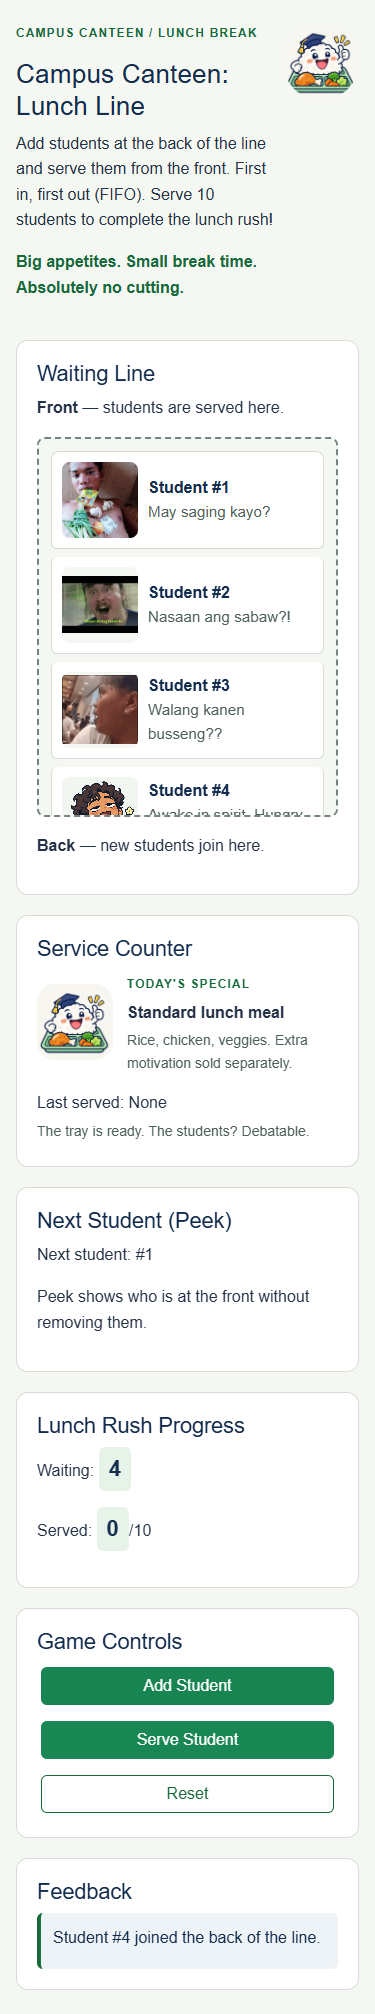
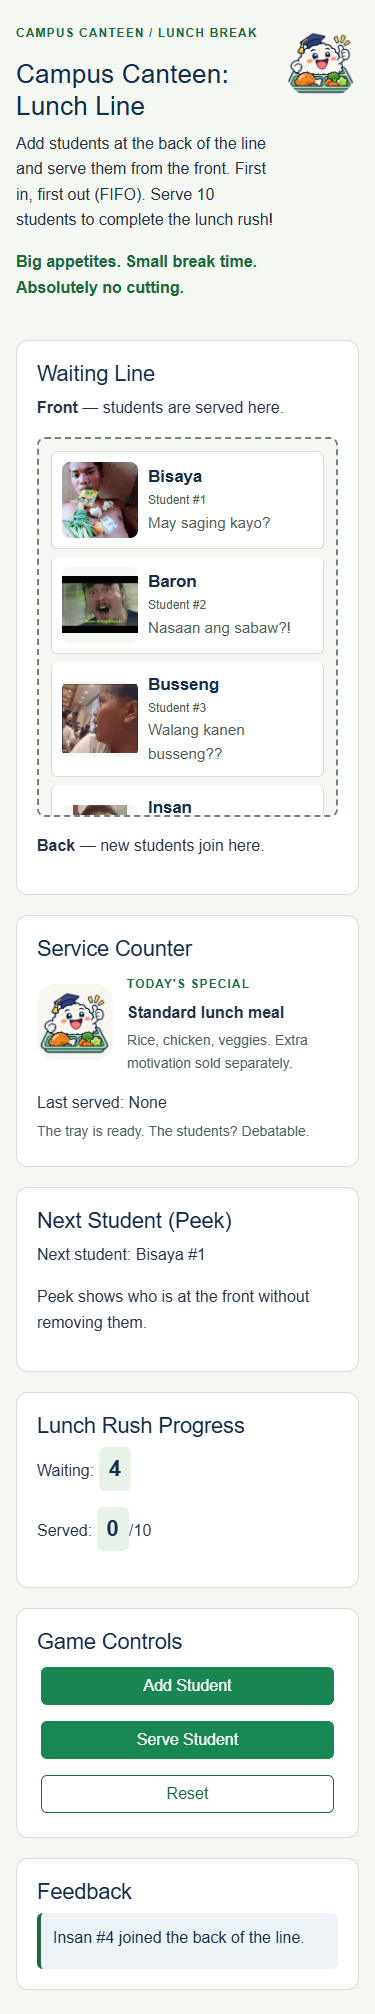
Add five named meme characters with supplied portraits and dialogue

diff --git a/docs/project-report.html b/docs/project-report.html
@@ -32,7 +32,7 @@ code{font-size:10pt}img{display:block;max-width:100%;max-height:200mm;margin:aut
 <section class="page"><h2>Gameplay screenshot</h2><p>After serving #1 and adding another student, arrival order and Last served remain consistent.</p><img src="screenshots/playing-1280.png" alt="Actual game showing students 2 through 5 waiting and student 1 last served"></section>
 <section class="page"><h2>Completion screenshot</h2><p>Ten served, two still waiting: Add and Serve are disabled until Reset.</p><img src="screenshots/success.png" alt="Actual game at 10 served with success feedback"></section>
 <section class="page"><h2>Verification and development</h2><p>Automated browser checks passed at 1280px and 375px using offline file launch: arrival order, repeated peek, empty-queue handling, FIFO serving, counts, completion guards, Reset, and refresh. No HTTP requests, console errors, or horizontal page overflow were observed. See <code>test-results.md</code> for the full record.</p>
-<h3>Local artwork</h3><p>Three user-supplied meme portraits, a retained cartoon portrait, and an AI-generated rice mascot are bundled in assets. Portraits repeat by student number and follow the served student to the counter. Captions are cosmetic; queue numbers and FIFO behavior remain unchanged. The exact generation prompts are recorded in assets/README.md.</p><h3>Development problem and solution</h3><p>The course calls for library integration and offline launch. Bootstrap and jQuery are stored locally and loaded before dependent custom code. Offline checks verify the game does not rely on an internet connection.</p>
+<h3>Local artwork</h3><p>Five named user-supplied meme portraits, and an AI-generated rice mascot are bundled in assets. Portraits repeat by student number and follow the served student to the counter. Captions are cosmetic; queue numbers and FIFO behavior remain unchanged. The exact generation prompts are recorded in assets/README.md.</p><h3>Development problem and solution</h3><p>The course calls for library integration and offline launch. Bootstrap and jQuery are stored locally and loaded before dependent custom code. Offline checks verify the game does not rely on an internet connection.</p>
 <h3>Contributions and AI assistance</h3><p>Reported contributions: Jared — HTML and Add integration; Eric — styling and local libraries; Fred — initialization and enqueue; Russ — dequeue. AI assistance completed final Serve/Reset integration, feedback, checks, and documentation. Human review of these final additions is still required; this report does not claim it occurred.</p>
 <h3>Demonstration plan</h3><ul><li>Jared: objective, HTML areas, and Add event handler.</li><li>Eric: custom CSS, Bootstrap, responsive and offline behavior.</li><li>Fred: array objects, enqueue, numbering, and peek.</li><li>Russ: dequeue, returned customer, completion, and Reset.</li></ul>
 <p>Use the accompanying demo guide for a 10–15 minute rehearsal. Everyone should explain FIFO, return values, invalid-action guards, and their own code.</p>

diff --git a/js/game.js b/js/game.js
@@ -5,12 +5,18 @@ let lastServedCustomer = null;
 const SERVED_TARGET = 10;
 
 // Cosmetic profiles repeat; the unique queue number still identifies each student.
+const STUDENT_NAMES = ["Bisaya", "Baron", "Busseng", "Insan", "Neneng B"];
 const STUDENT_MOODS = [
   "May saging kayo?",
   "Nasaan ang sabaw?!",
   "Walang kanen busseng??",
-  "Awake in spirit. Hungry in person."
+  "Mekus mekus mo na 'yan insan",
+  "'Ma ano ulam?"
 ];
+
+function customerLabel(customer) {
+  return STUDENT_NAMES[(customer.number - 1) % STUDENT_NAMES.length] + " #" + customer.number;
+}
 
 function portraitClass(customer) {
   return "student-portrait portrait-" + ((customer.number - 1) % STUDENT_MOODS.length);
@@ -63,6 +69,8 @@ function updateDisplay() {
     card.addClass("student-card list-group-item");
     const portrait = $("<span>").addClass(portraitClass(customer)).attr("aria-hidden", "true");
     const details = $("<div>").addClass("student-details");
+    $("<span>").addClass("student-name")
+      .text(STUDENT_NAMES[(customer.number - 1) % STUDENT_NAMES.length]).appendTo(details);
     $("<span>").addClass("student-number").text("Student #" + customer.number).appendTo(details);
     $("<span>").addClass("student-mood")
       .text(STUDENT_MOODS[(customer.number - 1) % STUDENT_MOODS.length]).appendTo(details);
@@ -78,12 +86,12 @@ function updateDisplay() {
   if (nextCustomer === null) {
     $("#next-student").text("None");
   } else {
-    $("#next-student").text("#" + nextCustomer.number);
+    $("#next-student").text(customerLabel(nextCustomer));
   }
 
   $("#served-count").text(servedCount);
   $("#last-served").text(lastServedCustomer === null
-    ? "None" : "#" + lastServedCustomer.number);
+    ? "None" : customerLabel(lastServedCustomer));
 
   $("#served-portrait").prop("hidden", lastServedCustomer === null);
   if (lastServedCustomer !== null) {
@@ -102,7 +110,7 @@ $(function () {
   $("#add-student").on("click", function () {
     const customer = enqueueCustomer();
     if (customer !== null) {
-      $("#feedback-message").text("Student #" + customer.number + " joined the back of the line.");
+      $("#feedback-message").text(customerLabel(customer) + " joined the back of the line.");
     }
     updateDisplay();
   });
@@ -118,7 +126,7 @@ $(function () {
       lastServedCustomer = customer;
       $("#feedback-message").text(servedCount >= SERVED_TARGET
         ? "Success! You served 10 students. Lunch rush complete! Select Reset to play again."
-        : "Served student #" + customer.number + ". Enjoy your lunch!");
+        : "Served " + customerLabel(customer) + ". Enjoy your lunch!");
     }
     updateDisplay();
   });

diff --git a/css/style.css b/css/style.css
@@ -187,7 +187,7 @@ button:disabled {
 }
 
 /* User-supplied meme photos are displayed whole; original files are unedited. */
-.portrait-0, .portrait-1, .portrait-2 {
+.portrait-0, .portrait-1, .portrait-2, .portrait-3, .portrait-4 {
   background-size: contain;
   background-position: center;
   background-repeat: no-repeat;
@@ -200,3 +200,8 @@ button:disabled {
 @media (max-width: 575px) {
   .student-portrait { width: 76px; height: 76px; flex-basis: 76px; }
 }
+
+.portrait-3 { background-image: url('../assets/member-4-meme.png'); }
+.portrait-4 { background-image: url('../assets/member-5-meme.png'); }
+.student-name { display: block; color: #142d4e; font-size: 1.05rem; font-weight: 700; }
+.student-number { font-size: .75rem; color: #4e6157; font-weight: 400; }

diff --git a/assets/README.md b/assets/README.md
@@ -1,8 +1,8 @@
 # Campus Canteen artwork
 
-The first three member profiles use user-supplied meme photos copied without alteration. The fourth profile and lunch mascot retain the earlier AI-generated artwork. All files are bundled locally for offline play.
+All five member profiles use user-supplied meme photos copied without alteration. The lunch mascot retains the earlier AI-generated artwork. The original cartoon atlas is retained as an unused source asset. All files are bundled locally for offline play.
 
-- `student-portraits.png`: one 2x2 atlas, displayed with CSS background positions. Portrait choice is `(customer.number - 1) % 4`, so the same student keeps the same portrait. Repeated portraits do not change unique queue numbers or FIFO order.
+- `student-portraits.png`: original 2x2 cartoon atlas, retained for reference and no longer used by the five profiles. The current meme profile choice is `(customer.number - 1) % 5`, so the same student keeps the same portrait. Repeated portraits do not change unique queue numbers or FIFO order.
 - `lunch-mascot.png`: rice graduate on a standard meal tray, used in the header and service counter.
 
 The art and humorous captions are cosmetic. Required controls, feedback, and numbered identities remain readable. Portraits are decorative for assistive technology; student numbers provide identification.
@@ -12,7 +12,10 @@ The art and humorous captions are cosmetic. Required controls, feedback, and num
 1. `member-1-meme.jpg`, from the supplied bisaya.jpg: "May saging kayo?"
 2. `member-2-meme.jpg`, from the supplied sabaw.jpg: "Nasaan ang sabaw?!"
 3. `member-3-meme.png`, from the supplied clipboard image: "Walang kanen busseng??"
-4. Original sleepy cartoon profile retained because no replacement was supplied.
+4. `member-4-meme.png`: Insan — "Mekus mekus mo na 'yan insan"
+5. `member-5-meme.png`: Neneng B — "'Ma ano ulam?"
+
+Profiles 1–3 are named Bisaya, Baron, and Busseng. Profiles cycle every five arrivals; queue numbers remain unique. Names appear on cards, next-student and last-served displays, and feedback. The four actual project contributors remain Jared, Eric, Fred, and Russ; these five names are game characters.
 
 The requested dialogue is displayed as HTML text, including at Last served. Text already present inside an image is left intact. These are meme representations selected by the user, not claims that the pictured people are team members. Source images were supplied by the user; they were not generated by this project, and this record does not assert ownership of them.
 

diff --git a/README.md b/README.md
@@ -91,6 +91,6 @@ The working game and supporting files are prepared. The team still needs to rehe
 
 ## Cartoon assets and lunch-break humor
 
-Three user-supplied meme portraits, one retained cartoon portrait, and a cheerful rice-graduate mascot add personality while keeping the original navy/green school theme. Portraits cycle by student number and follow the student into Last served; they do not affect queue priority or the one-meal rule. Local files, exact built-in image-generation prompts, and usage notes are documented in `assets/README.md`.
+Five named user-supplied meme portraits, and a cheerful rice-graduate mascot add personality while keeping the original navy/green school theme. Portraits cycle by student number and follow the student into Last served; they do not affect queue priority or the one-meal rule. Local files, exact built-in image-generation prompts, and usage notes are documented in `assets/README.md`.
 
-`portraitClass(customer)` selects a member profile: three local meme photos or the fourth quadrant of the original cartoon atlas. `STUDENT_MOODS` supplies four cosmetic captions. `updateDisplay()` renders these alongside the original student numbers and restores the empty scene after Reset. The queue functions and success target are unchanged.
+`portraitClass(customer)` selects a member profile: one of five local meme photos. `STUDENT_NAMES` and `STUDENT_MOODS` supply five cosmetic character names and captions. `updateDisplay()` renders these alongside the original student numbers and restores the empty scene after Reset. The queue functions and success target are unchanged.

diff --git a/docs/test-results.md b/docs/test-results.md
@@ -32,3 +32,6 @@ The full offline gameplay checks were repeated after the artwork update at 1280p
 
 ## Member meme update
 The full offline suite passed at both widths after replacing profiles 1-3. Checks also verify all three supplied photos load, each profile uses its expected file, exact dialogue is rendered, and serving student 1 carries the matching line to the counter. The narrow-screen meme lineup was visually inspected.
+
+## Five named profiles
+Offline checks passed at 1280px and 375px after adding Insan and Neneng B. Verified all five names and exact dialogues, both new local images, named peek and Last served, Neneng B at customer 5, and Bisaya again at customer 6. FIFO, completion, and reset checks remain passing.
